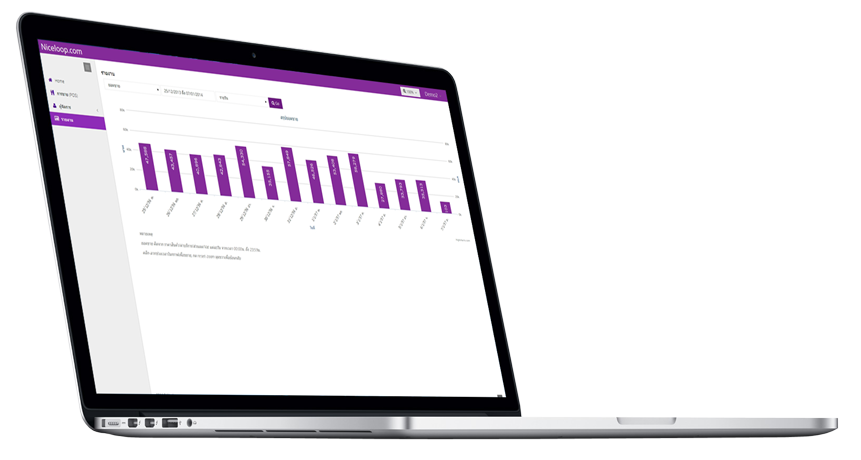
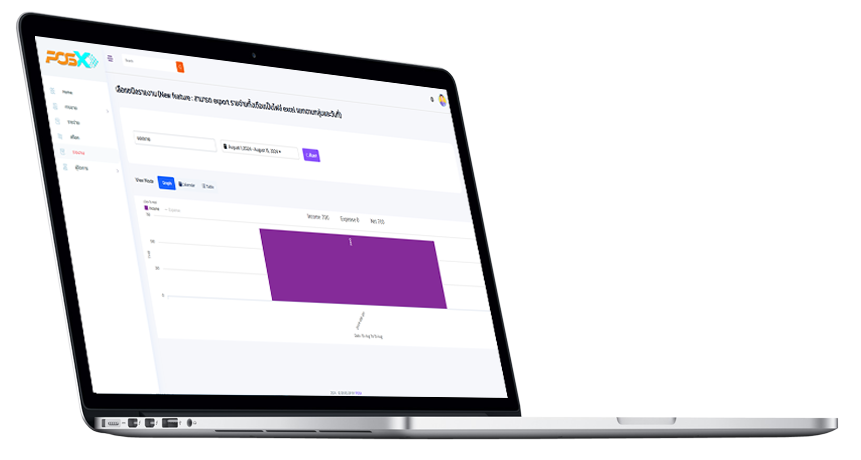
edit img

diff --git a/app/Views/Features.php b/app/Views/Features.php
@@ -207,16 +207,16 @@
                         <div class="col-md-6 ">
                             <ul class="bxslider">
                                 <li>
-                                        <img style="position: relative;top:40px" class="img-responsive appear-animation fadeInRight appear-animation-visible" src="/img/features/screen-with-device/report-direct-column-macbook.png" data-appear-animation="fadeInRight">
+                                    <img style="position: relative;top:40px" class="img-responsive appear-animation fadeInRight appear-animation-visible" src="/img/features/screen-with-device/report-notebook.png" data-appear-animation="fadeInRight">
                                 </li>
                                 <li>
                                     <div class="portfolio-item img-thumbnail">
-                                            <img class="img-responsive appear-animation fadeInRight appear-animation-visible" src="/img/features/screen-with-device/report-macbook-air-side.jpg" data-appear-animation="fadeInRight">
+                                        <img class="img-responsive appear-animation fadeInRight appear-animation-visible" src="/img/features/screen-with-device/report-macbook-air-side.jpg" data-appear-animation="fadeInRight">
                                     </div>
                                 </li>
                                 <li>
                                     <div class="portfolio-item img-thumbnail">
-                                            <img class="img-responsive appear-animation fadeInRight appear-animation-visible" src="/img/features/screen-with-device/report-ipad-air.jpg" data-appear-animation="fadeInRight">
+                                        <img class="img-responsive appear-animation fadeInRight appear-animation-visible" src="/img/features/screen-with-device/report-ipad-air.jpg" data-appear-animation="fadeInRight">
                                     </div>
                                 </li>
                             </ul>
@@ -291,40 +291,32 @@
                         <div class="col-md-12">
                             <h2 style="text-align: center">ตัวอย่างหน้าจอ Screenshot </h2>
                             <ul id="screenShot">
-                                <li><a class="fancy-thumb" rel="screen" href="/img/features/screen/dashboard.jpg" title="Dashboard : รายงานข้อมูลวันนี้">
-                                        <img class="img-responsive appear-animation fadeInRight appear-animation-visible" src="/img/features/thumb/dashboard_resize.jpg" title="Dashboard" data-appear-animation="fadeInRight">
+                                <li><a target="_blank" rel="screen" href="/img/features/screen/dashboard.jpg" title="Dashboard">
+                                        <img class="img-responsive appear-animation fadeInRight appear-animation-visible" src="/img/features/thumb/dashboard.jpg" title="Dashboard" data-appear-animation="fadeInRight">
                                     </a>
                                 </li>
-                                <li><a class="fancy-thumb" rel="screen" href="/img/features/screen/table.jpg" title="Tables : บันทึก/แสดง รายการข้อมูลโต๊ะอาหาร">
-                                        <img class="img-responsive appear-animation fadeInRight appear-animation-visible" src="/img/features/thumb/table_resize.jpg" title="Tables" data-appear-animation="fadeInRight">
+                                <li><a target="_blank" rel="screen" href="/img/features/screen/setting.jpg" title="Setting">
+                                        <img class="img-responsive appear-animation fadeInRight appear-animation-visible" src="/img/features/thumb/setting.jpg" title="Setting" data-appear-animation="fadeInRight">
                                     </a>
                                 </li>
-                                <li><a class="fancy-thumb" rel="screen" href="/img/features/screen/pos.jpg" title="Point Of Sales : การขายอาหาร/สินค้า/บริการ">
-                                        <img class="img-responsive appear-animation fadeInRight appear-animation-visible" src="/img/features/thumb/pos_resize.jpg" title="Point Of Sales" data-appear-animation="fadeInRight">
+                                <li><a target="_blank" rel="screen" href="/img/features/screen/expense.jpg" title="Expense">
+                                        <img class="img-responsive appear-animation fadeInRight appear-animation-visible" src="/img/features/thumb/expense.jpg" title="Expense" data-appear-animation="fadeInRight">
                                     </a>
                                 </li>
-                                <li><a class="fancy-thumb" rel="screen" href="/img/features/screen/pos-2.jpg" title="Point Of Sales 2 ">
-                                        <img class="img-responsive appear-animation fadeInRight appear-animation-visible" src="/img/features/thumb/pos-2_resize.jpg" title="Point Of Sales " data-appear-animation="fadeInRight">
+                                <li><a target="_blank" rel="screen" href="/img/features/screen/table.jpg" title="Tables">
+                                        <img class="img-responsive appear-animation fadeInRight appear-animation-visible" src="/img/features/thumb/table.jpg" title="Tables" data-appear-animation="fadeInRight">
                                     </a>
                                 </li>
-                                <li><a class="fancy-thumb" rel="screen" href="/img/features/screen/manager.jpg" title="Manager : สร้าง/แก้ไข/ลบ รายการอาหาร-ราคา">
-                                        <img class="img-responsive appear-animation fadeInRight appear-animation-visible" src="/img/features/thumb/report-column_resize.jpg" title="Management" data-appear-animation="fadeInRight">
+                                <li><a target="_blank" rel="screen" href="/img/features/screen/order.jpg" title="Order">
+                                        <img class="img-responsive appear-animation fadeInRight appear-animation-visible" src="/img/features/thumb/order.jpg" title="Order" data-appear-animation="fadeInRight">
                                     </a>
                                 </li>
-                                <li><a class="fancy-thumb" rel="screen" href="/img/features/screen/report-column.jpg" title="Report : รายงานยอดขาย 14 วันล่าสุด">
-                                        <img class="img-responsive appear-animation fadeInRight appear-animation-visible" src="/img/features/thumb/report-column_resize.jpg" title="Report Last 14 Days" data-appear-animation="fadeInRight">
+                                <li><a target="_blank" rel="screen" href="/img/features/screen/setting_TV.jpg" title="Setting TV">
+                                        <img class="img-responsive appear-animation fadeInRight appear-animation-visible" src="/img/features/thumb/setting_TV.jpg" title="Setting TV" data-appear-animation="fadeInRight">
                                     </a>
                                 </li>
-                                <li><a class="fancy-thumb" rel="screen" href="/img/features/screen/report-line-chart.jpg" title="Report  : รายงานยอดขาย 3 เดือนล่าสุด ">
-                                        <img class="img-responsive appear-animation fadeInRight appear-animation-visible" src="/img/features/thumb/report-line-chart_resize.jpg" title="Report Last 3 Months" data-appear-animation="fadeInRight">
-                                    </a>
-                                </li>
-                                <li><a class="fancy-thumb" rel="screen" href="/img/features/screen/report-sales.jpg" title="Report  : รายงานแต่ละบิล">
-                                        <img class="img-responsive appear-animation fadeInRight appear-animation-visible" src="/img/features/thumb/report-sales_resize.jpg" title="Report Each Bill" data-appear-animation="fadeInRight">
-                                    </a>
-                                </li>
-                                <li><a class="fancy-thumb" rel="screen" href="/img/features/screen/report-sales-detail.jpg" title="Report  : รายละเอียดของแต่ละบิล">
-                                        <img class="img-responsive appear-animation fadeInRight appear-animation-visible" src="/img/features/thumb/report-sales-detail_resize.jpg" title="Report Bill Detail" data-appear-animation="fadeInRight">
+                                <li><a target="_blank" rel="screen" href="/img/features/screen/report.jpg" title="Report">
+                                        <img class="img-responsive appear-animation fadeInRight appear-animation-visible" src="/img/features/thumb/report.jpg" title="Report" data-appear-animation="fadeInRight">
                                     </a>
                                 </li>
                             </ul>
